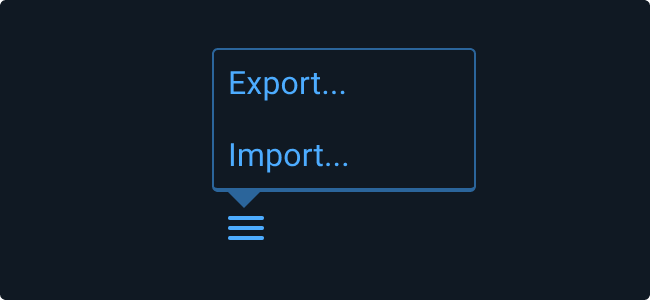
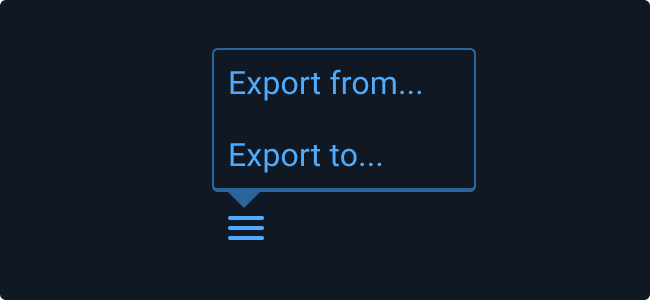
Update images and rules of thumb

Changed region(s): [[0.3385, 0.48, 0.5846, 0.57], [0.4923, 0.24, 0.6462, 0.33]]

diff --git a/src/pages/patterns/pop-up-menu.md b/src/pages/patterns/pop-up-menu.md
@@ -24,6 +24,8 @@ While rules governing the Pop Up Menu appearance and behavior generally mirror t
 - If you use more than one word in a menu item name, be sure to use sentence case capitalization.
 - Choose menu names that are short and precise. Do not use an ellipsis to truncate overflow text as this indicates that further action or another dialog or window is required before the action takes place.
 - Avoid combining actions and attributes in the same group. Users tend to view choosing an action (e.g. “Delete item”) differently from choosing an attribute (e.g. “Rating”).
+- When using an ellipsis (…), don’t use sentence fragments or leading commands. 
+- It is recommend that actions should not be truncated with an ellipsis (…).  However, if you must use ellipses for both truncation and to indicate further action is needed, add additional space after the ellipsis for those that require further action in order to clarify that they are not truncated.
 
 ## Examples
 :::two-col

diff --git a/src/pages/components/button.md b/src/pages/components/button.md
@@ -23,6 +23,8 @@ Action Buttons allow users to trigger actions by clicking, tapping, or pressing 
 - Resize Button width to accommodate the title; do not abbreviate or truncate Button titles.
 - Don’t use an outside label to introduce a Button. Instead, clearly title the Button.
 - Add an ellipsis (…) to the Button title if it opens another window, Dialog, or app.
+- When using an ellipsis (…), don’t use sentence fragments or leading commands. 
+- It is recommend that actions should not be truncated with an ellipsis (…) in buttons, to avoid confusion with using an ellipsis to indicate opening another window, Dialog, or app.
 - In Button groups, the primary Button with the preferred user action shall be placed on the right and all Buttons with secondary actions to the left of the preferred action Button.
 - Position Buttons consistently across the application. Unless there is a good reason not to, right-align Buttons in Astro applications.
 
